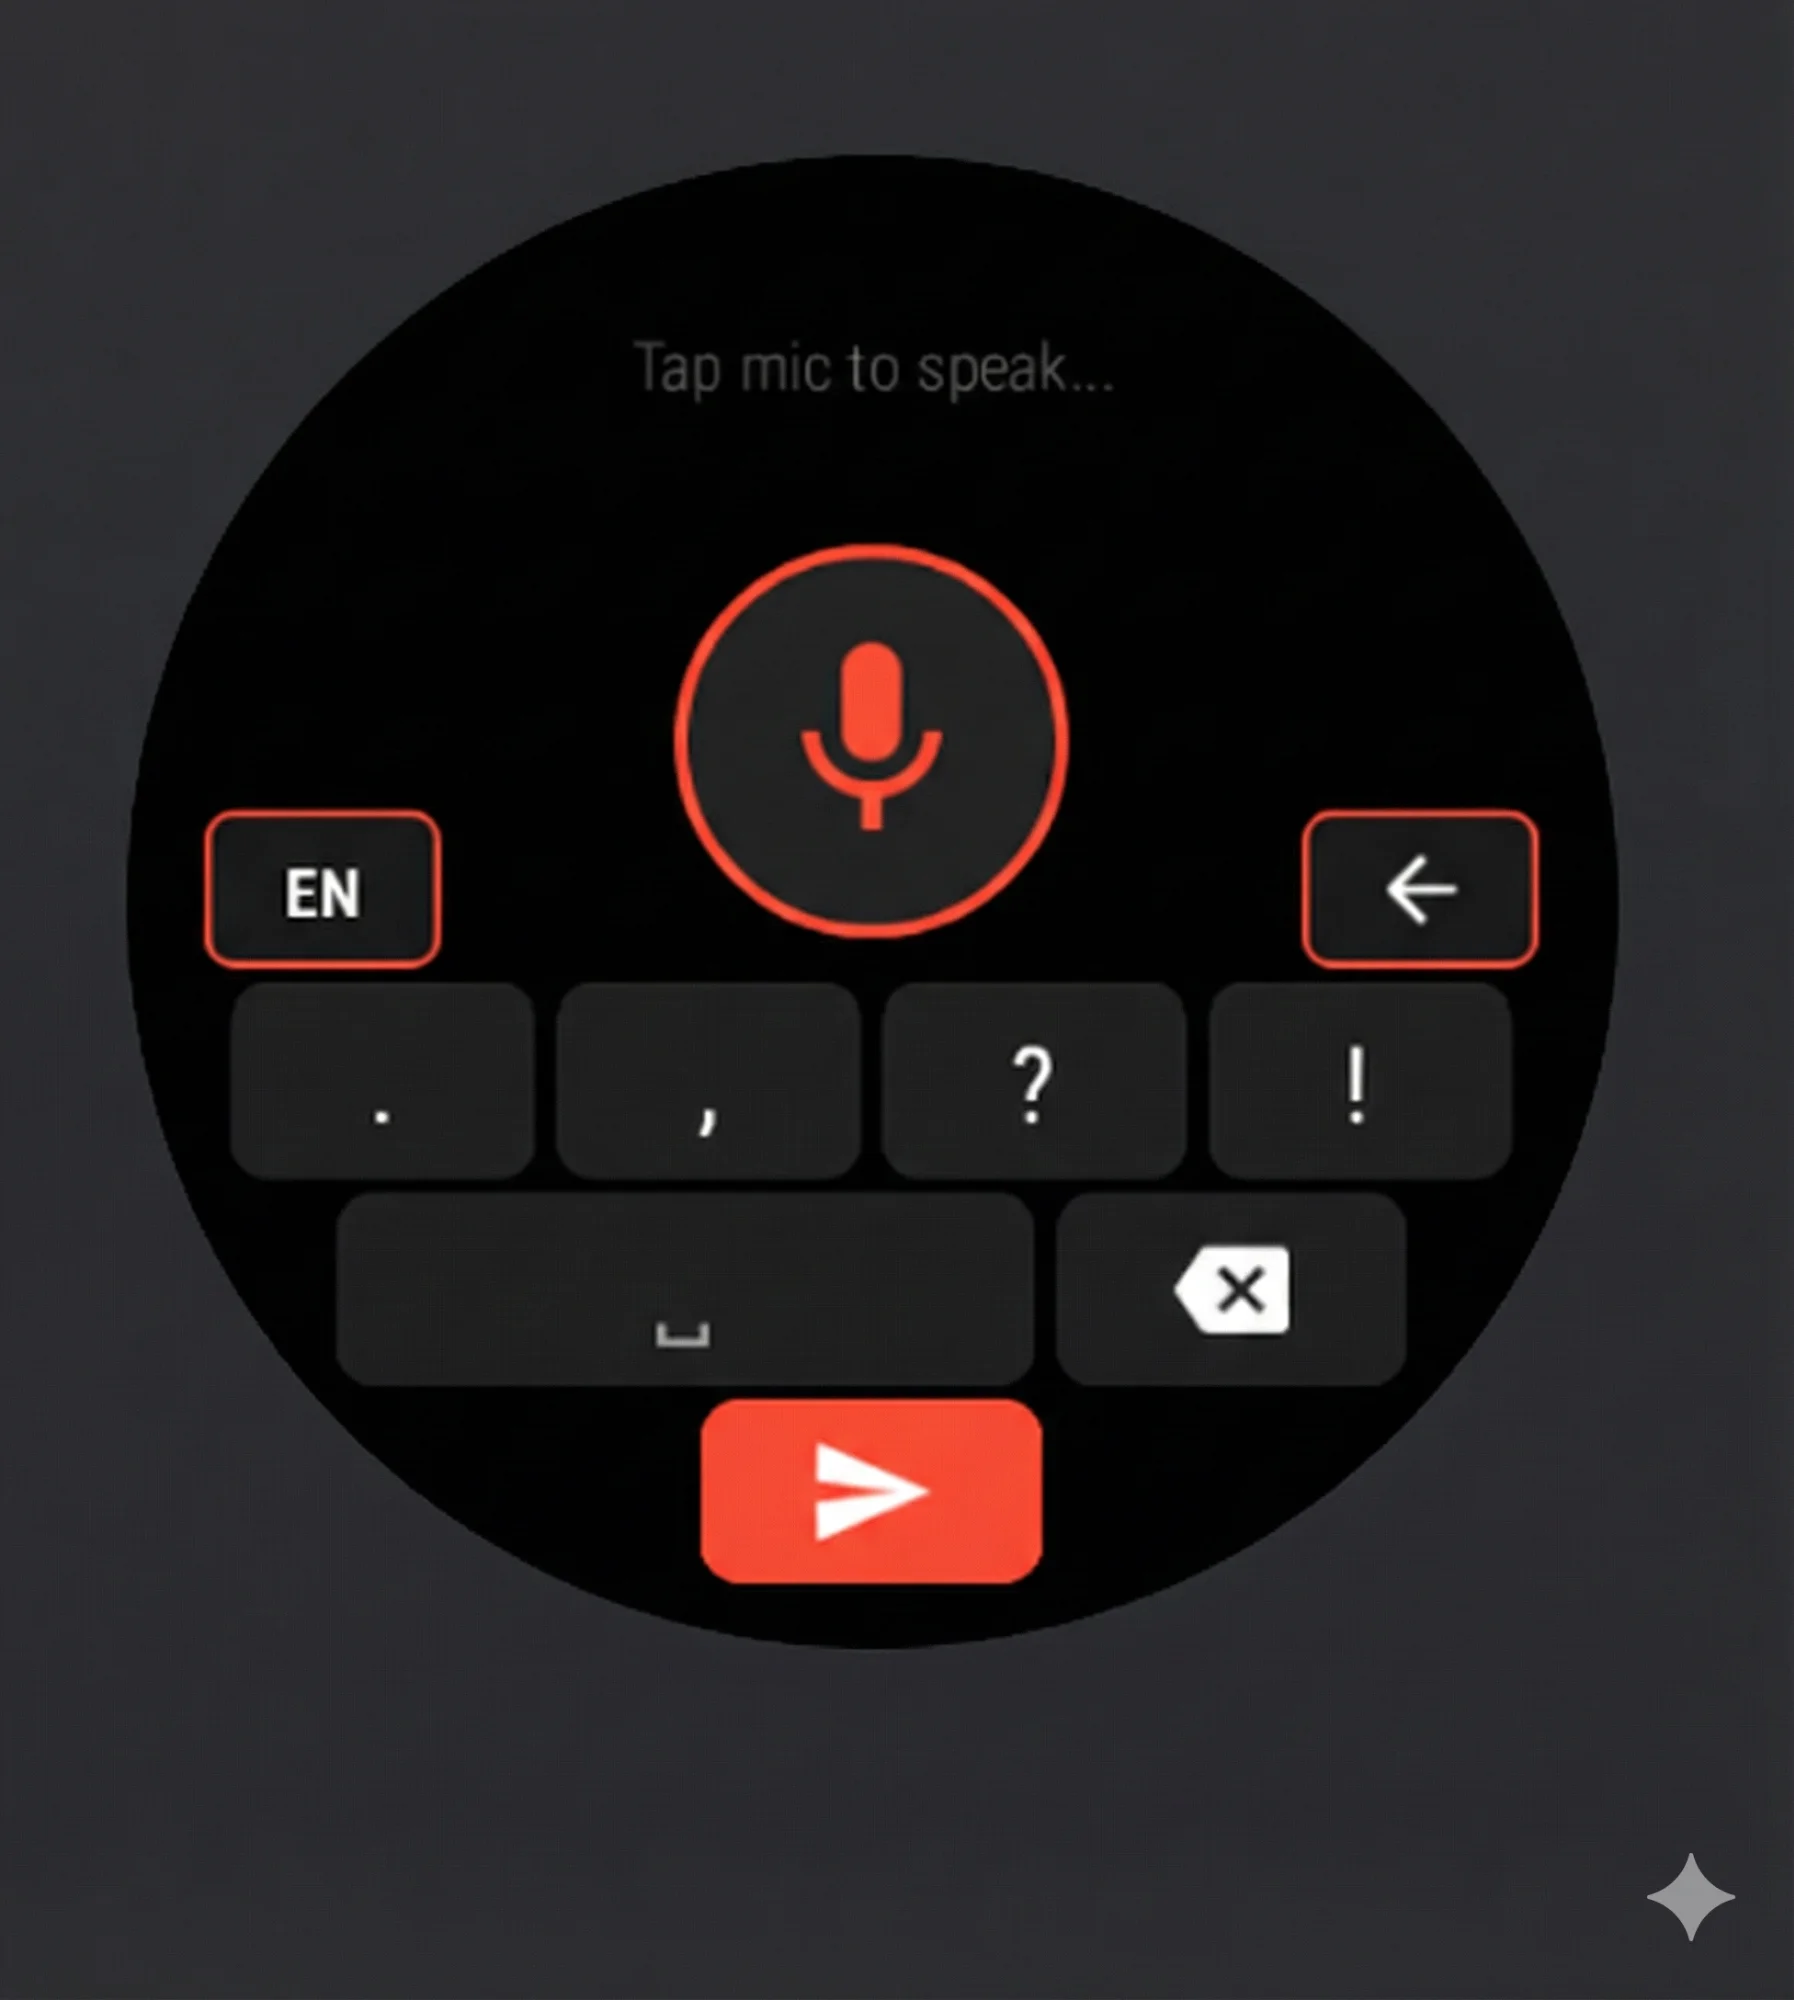
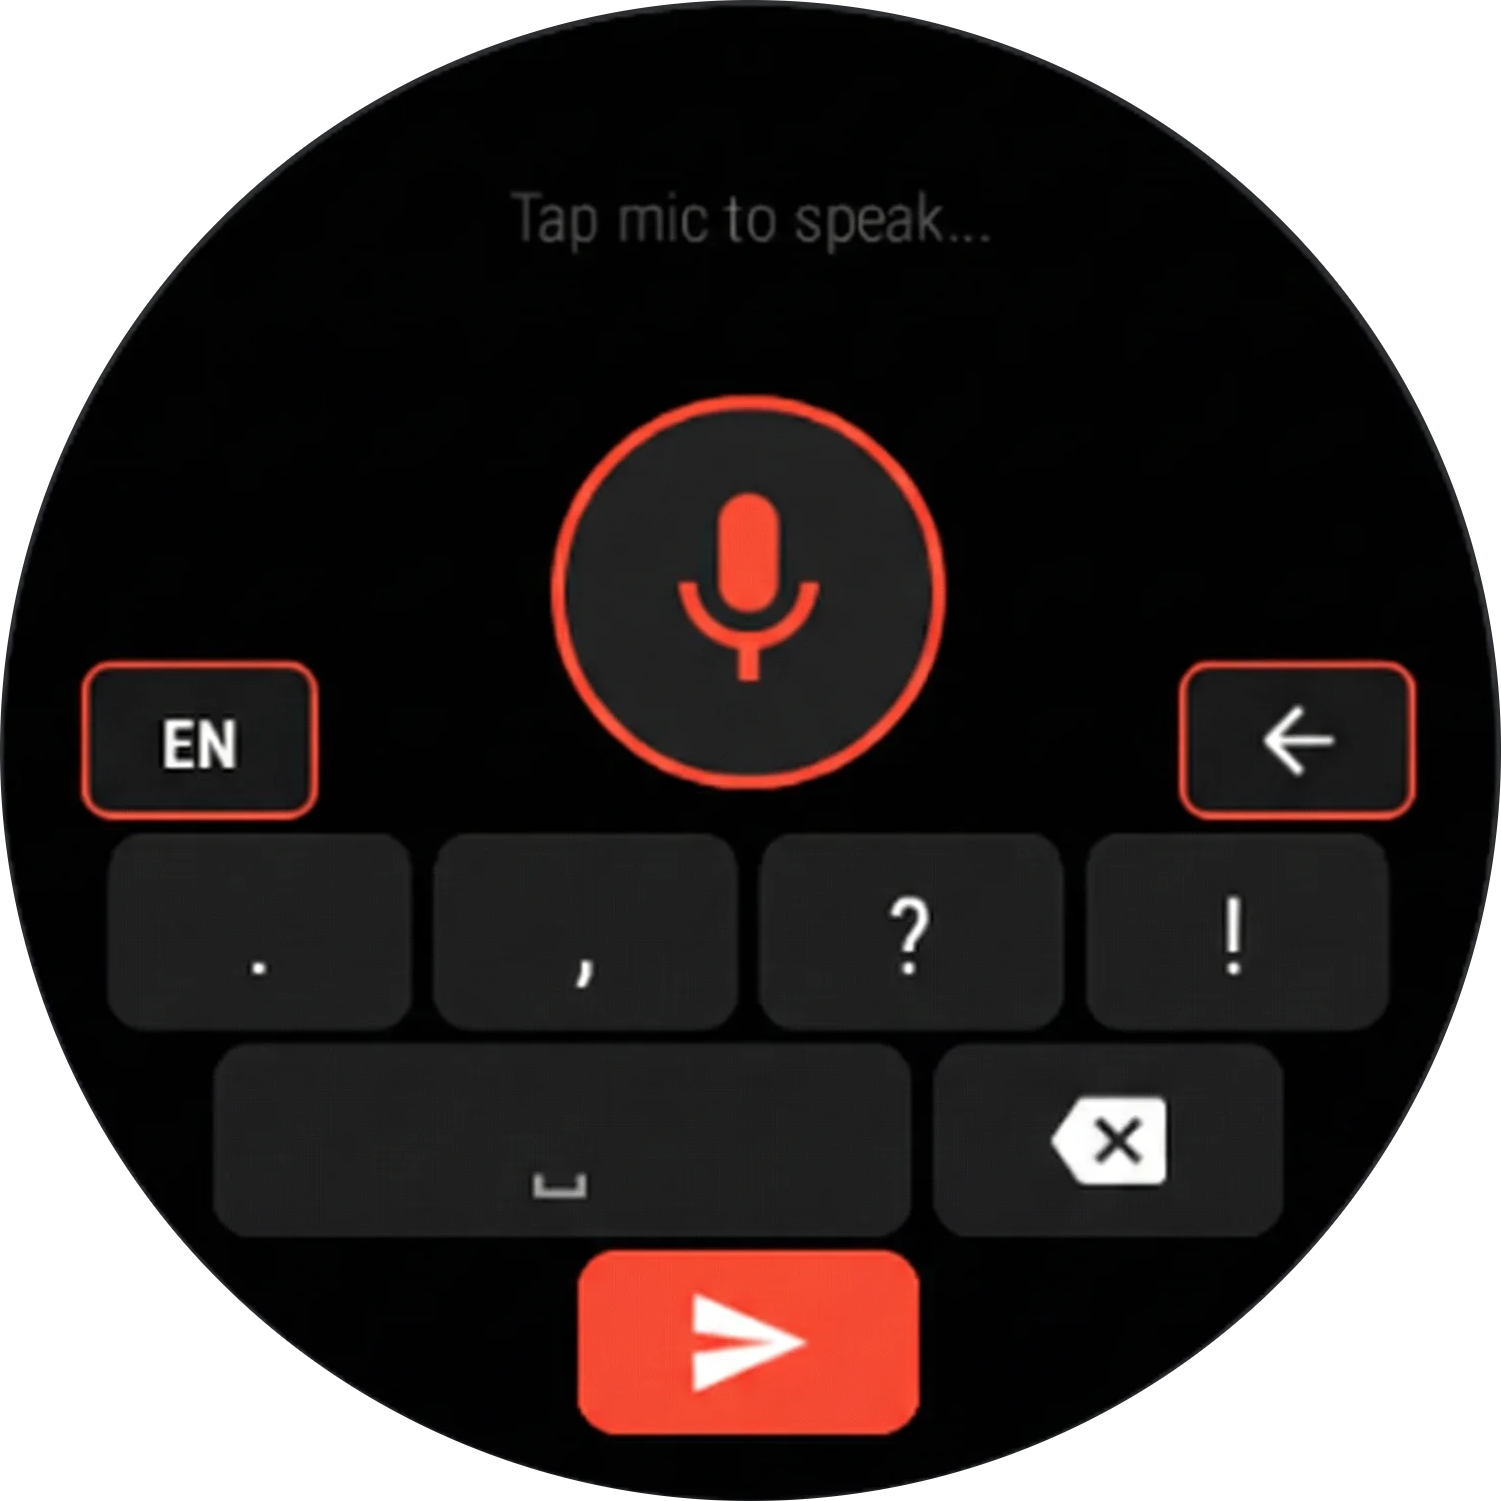
Add files via upload

diff --git a/index.html b/index.html
@@ -561,7 +561,7 @@
             50% { transform: translateY(-15px); }
         }
 
-        /* Watch Mockup - Simple approach using the screenshot as-is */
+        /* Watch Mockup - Stylish design with adjustable positioning */
         .watch-container {
             position: relative;
             display: flex;
@@ -569,34 +569,132 @@
             align-items: center;
         }
 
+        /* === WATCH BANDS === */
         .watch-band-top {
-            width: 60px;
-            height: 40px;
-            background: linear-gradient(180deg, transparent 0%, #3a3a3a 60%, #2d2d2d 100%);
-            border-radius: 10px 10px 0 0;
-            margin-bottom: -5px;
+            width: 65px;
+            height: 50px;
+            background: linear-gradient(180deg, 
+                transparent 0%, 
+                #1a1a1a 30%,
+                #2a2a2a 60%, 
+                #333 100%
+            );
+            border-radius: 8px 8px 0 0;
+            margin-bottom: -12px;
             z-index: 1;
         }
 
         .watch-band-bottom {
-            width: 60px;
-            height: 40px;
-            background: linear-gradient(0deg, transparent 0%, #3a3a3a 60%, #2d2d2d 100%);
-            border-radius: 0 0 10px 10px;
-            margin-top: -5px;
+            width: 65px;
+            height: 50px;
+            background: linear-gradient(0deg, 
+                transparent 0%, 
+                #1a1a1a 30%,
+                #2a2a2a 60%, 
+                #333 100%
+            );
+            border-radius: 0 0 8px 8px;
+            margin-top: -12px;
             z-index: 1;
         }
 
+        /* === WATCH BODY (contains image and buttons) === */
         .watch-body {
             position: relative;
             z-index: 2;
         }
 
+        /* === WATCH CASE/FRAME ===
+           This creates the rounded watch housing
+           ADJUST: width/height to match your image size + padding
+        */
+        .watch-case {
+            width: 310px;                /* Should be image width + (padding * 2) */
+            height: 310px;               /* Should be image height + (padding * 2) */
+            background: linear-gradient(145deg, #3a3a3a 0%, #2a2a2a 50%, #1f1f1f 100%);
+            border-radius: 50%;
+            padding: 10px;               /* PADDING: space between frame and screen */
+            box-shadow: 
+                0 25px 60px rgba(0, 0, 0, 0.6),
+                inset 0 2px 3px rgba(255,255,255,0.1),
+                inset 0 -2px 3px rgba(0,0,0,0.3);
+            display: flex;
+            align-items: center;
+            justify-content: center;
+        }
+
+        /* === WATCH SCREEN IMAGE === 
+           ADJUST THESE VALUES TO POSITION THE IMAGE:
+           - width: size of the image
+           - margin-left: move left (negative) or right (positive)
+           - margin-top: move up (negative) or down (positive)
+        */
         .watch-screen-image {
-            width: 280px;
-            height: auto;
+            width: 290px;                /* SIZE: change this to make bigger/smaller */
+            height: 290px;               /* Keep same as width for circle */
+            object-fit: cover;
             display: block;
-            filter: drop-shadow(0 25px 50px rgba(0, 0, 0, 0.5));
+            border-radius: 50%;
+            margin-left: 0px;            /* HORIZONTAL: negative = left, positive = right */
+            margin-top: 0px;             /* VERTICAL: negative = up, positive = down */
+        }
+
+        /* === CROWN (top rotating button) === 
+           ADJUST: right, top values to position
+        */
+        .watch-crown {
+            position: absolute;
+            right: -6px;                 /* HORIZONTAL position from right edge */
+            top: 95px;                   /* VERTICAL position from top */
+            width: 8px;
+            height: 32px;
+            background: linear-gradient(90deg, 
+                #1a1a1a 0%, 
+                #3a3a3a 30%, 
+                #4a4a4a 50%, 
+                #3a3a3a 70%, 
+                #1a1a1a 100%
+            );
+            border-radius: 0 4px 4px 0;
+            box-shadow: 2px 0 6px rgba(0,0,0,0.5);
+        }
+
+        /* Crown grip texture */
+        .watch-crown::before {
+            content: '';
+            position: absolute;
+            top: 3px;
+            left: 1px;
+            right: 1px;
+            bottom: 3px;
+            background: repeating-linear-gradient(
+                0deg,
+                transparent,
+                transparent 2px,
+                rgba(0,0,0,0.4) 2px,
+                rgba(0,0,0,0.4) 4px
+            );
+            border-radius: 1px;
+        }
+
+        /* === PUSH BUTTON (bottom smaller button) ===
+           ADJUST: right, top values to position
+        */
+        .watch-push-button {
+            position: absolute;
+            right: -4px;                 /* HORIZONTAL position from right edge */
+            top: 145px;                  /* VERTICAL position from top */
+            width: 6px;
+            height: 18px;
+            background: linear-gradient(90deg, 
+                #1a1a1a 0%, 
+                #3a3a3a 30%, 
+                #4a4a4a 50%, 
+                #3a3a3a 70%, 
+                #1a1a1a 100%
+            );
+            border-radius: 0 4px 4px 0;
+            box-shadow: 2px 0 6px rgba(0,0,0,0.5);
         }
 
         /* Watch Section */
@@ -682,11 +780,30 @@
 
             .watch-band-top, .watch-band-bottom {
                 width: 50px;
-                height: 30px;
+                height: 40px;
+            }
+
+            .watch-case {
+                width: 250px;
+                height: 250px;
+                padding: 8px;
             }
 
             .watch-screen-image {
-                width: 220px;
+                width: 234px;
+                height: 234px;
+            }
+
+            .watch-crown {
+                right: -4px;
+                top: 75px;
+                height: 26px;
+            }
+
+            .watch-push-button {
+                right: -2px;
+                top: 115px;
+                height: 14px;
             }
 
             .watch-features {
@@ -1469,7 +1586,11 @@
                 <div class="watch-container">
                     <div class="watch-band-top"></div>
                     <div class="watch-body">
-                        <img src="watch-screenshot.png" alt="GroqBoard on Wear OS" class="watch-screen-image">
+                        <div class="watch-crown"></div>
+                        <div class="watch-push-button"></div>
+                        <div class="watch-case">
+                            <img src="watch-screenshot.png" alt="GroqBoard on Wear OS" class="watch-screen-image">
+                        </div>
                     </div>
                     <div class="watch-band-bottom"></div>
                 </div>
